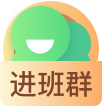
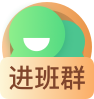
直播间悬浮按钮特效

diff --git a/page/live/pages/hliveRoom/hliveRoom.js b/page/live/pages/hliveRoom/hliveRoom.js
@@ -20,7 +20,12 @@ Page({
     showBox: 0,
     moveBox: 0,
     viewNum: 0,
-    showList: 1
+    showList: 1,
+    animation: {
+      showDoweload: 1,
+      showJoinclass: 0,
+      showOne: 1,
+    }
   },
   pageName: 'live',
   pagetype: 'hlive',
@@ -33,6 +38,18 @@ Page({
     }, () => {
       this.liveInit()
     })
+    setInterval(() => {
+      this.setData({
+        'animation.showJoinclass': !this.data.animation.showJoinclass,
+        'animation.showDoweload': !this.data.animation.showDoweload,
+      }, () => {
+        setTimeout(() => {
+          this.setData({
+            'animation.showOne': !this.data.animation.showOne
+          })
+        }, 250);
+      })
+    }, 5000);
   },
   onShow: function () {
     this.setData({

diff --git a/page/live/pages/vliveRoom/vliveRoom.js b/page/live/pages/vliveRoom/vliveRoom.js
@@ -54,7 +54,7 @@ Page({
           this.setData({
             'animation.showOne': !this.data.animation.showOne
           })
-        }, 500);
+        }, 250);
       })
     }, 5000);
     let clickHandler = setInterval(() => {
